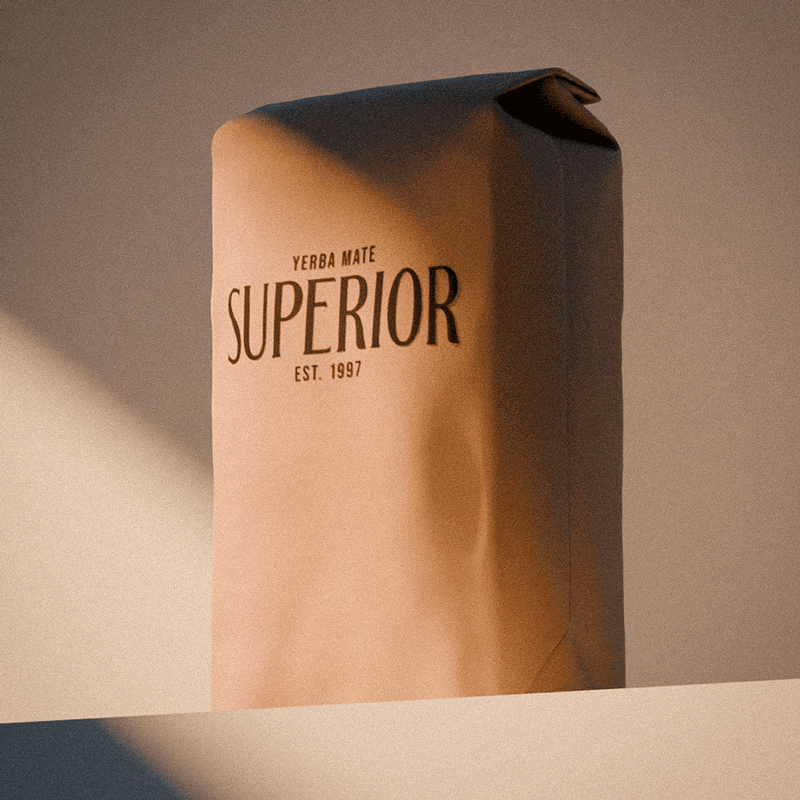
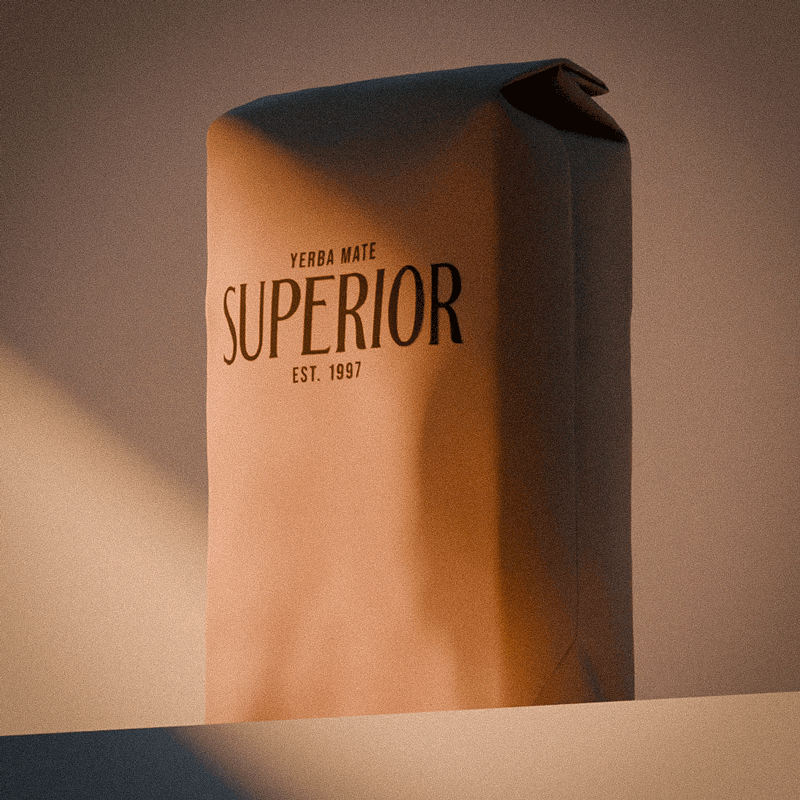
gallery update

diff --git a/visuals.html b/visuals.html
@@ -5,8 +5,8 @@
     <meta http-equiv="X-UA-Compatible" content="IE=edge">
     <meta name="viewport" content="width=device-width, initial-scale=1.0">
     <title>Joaquin Sampallo</title>
-    <meta name="description" content="Graphic Design & Visuals Portfolio">
-    <meta name="keywords" content="graphic design, visuals, portfolio">
+    <meta name="description" content="Creative Director Portfolio">
+    <meta name="keywords" content="brand, product, visualization">
     <link rel="stylesheet" href="styles.css">
     <link rel="preconnect" href="https://fonts.googleapis.com">
     <link rel="preconnect" href="https://fonts.gstatic.com" crossorigin>
@@ -20,7 +20,7 @@
             <div id="idcard">
                 <img src="img/joaquin.jpg">
                 <div>
-                    <h3 class="fauxh1">Joaquin Sampallo</h3>
+                    <h1>Joaquin Sampallo</h1>
                     <!-- <span>UX UI Designer • AR 🇦🇷</span> -->
                     <div id="status">
                         <div>Currently available</div>
@@ -34,15 +34,20 @@
                     <a href="mailto:[email redacted]"><div id="nvb_cta">Contact</div></a> 
             </div>
         </header>
-        <section>
-                <h1 class="fauxh3">Visuals</h1>
+        <section id="visuals">
+            
+                <div id="flair_cont">
+                    <span class="flair_d">Creative Direction</span>
+                    <span class="flair_e">Brand Visualization</span>
+                </div>
+                
                 <div class="layout-container">
                     <!-- MODULE 1: Large Box Left, Stacked Small Boxes Right -->
                     <div class="row">
-                        <div class="box w-2 ar-square"><img src="img/v08.png" alt="Gallery image 8"></div>
+                        <div class="box w-2 ar-square"><img src="img/v08.png" alt="yerba mate superior"></div>
                         <div class="col w-1">
-                            <div class="box w-full ar-square"><img src="img/v11.png" alt="Gallery image 2"></div>
-                            <div class="box w-full ar-square"><img src="https://picsum.photos/400/400?random=3" alt="Gallery image 3"></div>
+                            <div class="box w-full ar-square"><img src="img/v11.png" alt="yerba mate superior"></div>
+                            <div class="box w-full ar-square"><img src="img/v13.png" alt="yerba mate superior"></div>
                         </div>
                     </div>
 
@@ -50,7 +55,7 @@
                     <div class="row">
                         <div class="col w-1">
                             <div class="box w-full ar-square"><video autoplay loop muted playsinline src="img/v05.mp4"></video></div>
-                            <div class="box w-full ar-square"><img src="img/v02.png" alt="Gallery image 2"></div>
+                            <div class="box w-full ar-square"><img src="img/v15.png" alt="Gallery image 2"></div>
                         </div>
                         <div class="box w-2 ar-square"><img src="img/v02.png"></div>
                     </div>

diff --git a/styles.css b/styles.css
@@ -141,6 +141,12 @@ section{
     gap: 2rem;
 }
 
+#visuals{
+    display: flex;
+    flex-direction: column;
+    gap: 1rem;
+}
+
 a:link, a:visited, a:active, a:hover {
   text-decoration: none;
   color: var(--white);
@@ -192,6 +198,7 @@ a:link, a:visited, a:active, a:hover {
     font-weight: 600;
 }
 .flair_d{
+    overflow: hidden;
     line-height: 1;
     background-color: var(--green);
     color: var(--black);
@@ -427,6 +434,9 @@ footer{
     text-box-edge: cap alphabetic;
     margin-bottom: 0.5rem;
 }
+.hidden_h1{
+    display: none;
+}
 
 strong{
     font-size: 20px;
@@ -476,8 +486,14 @@ strong{
     text-box-trim: trim-both;
     text-box-edge: cap alphabetic;
     }
-    .flair_c, .flair_e{
+    .flair_c, .flair_d, .flair_e{
         font-weight: 500;
+        white-space: nowrap;
+        font-size: clamp(9px, 3.8vw, 14px);
+        padding: 6px clamp(8px, 2.5vw, 12px) 6px;
+    }
+    #flair_cont{
+    justify-content: center;
     }
     #idcard{
     gap: 1rem;